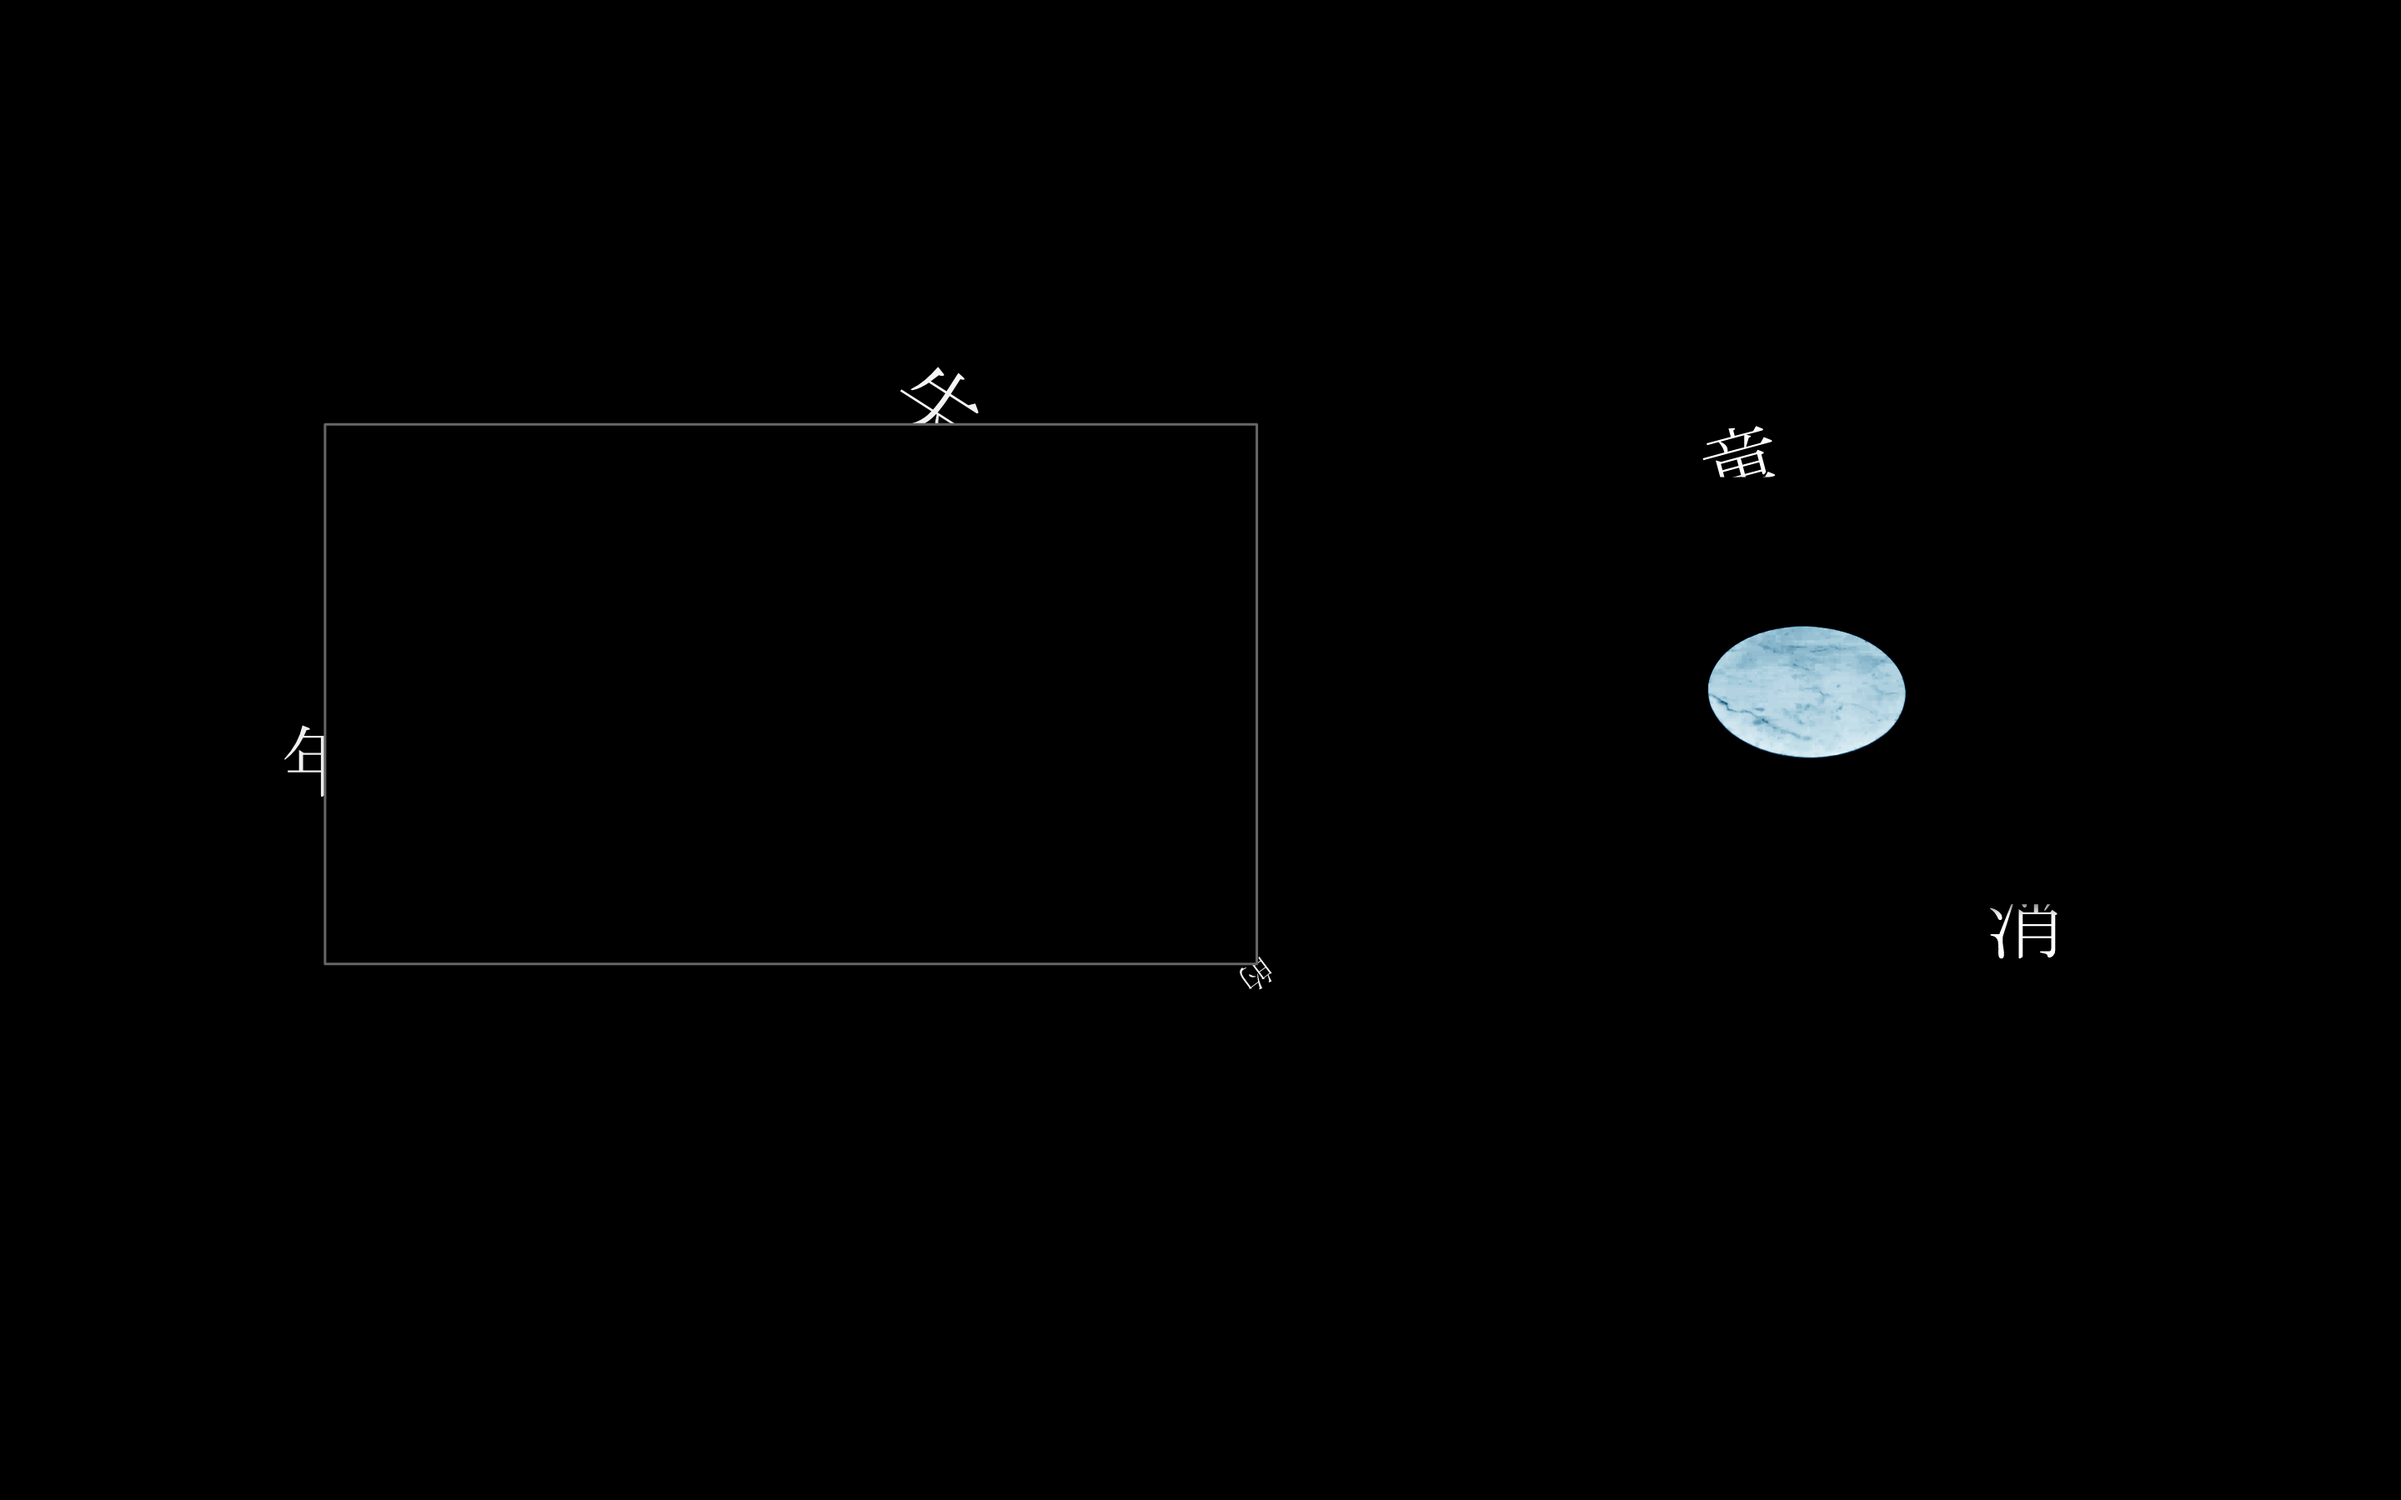
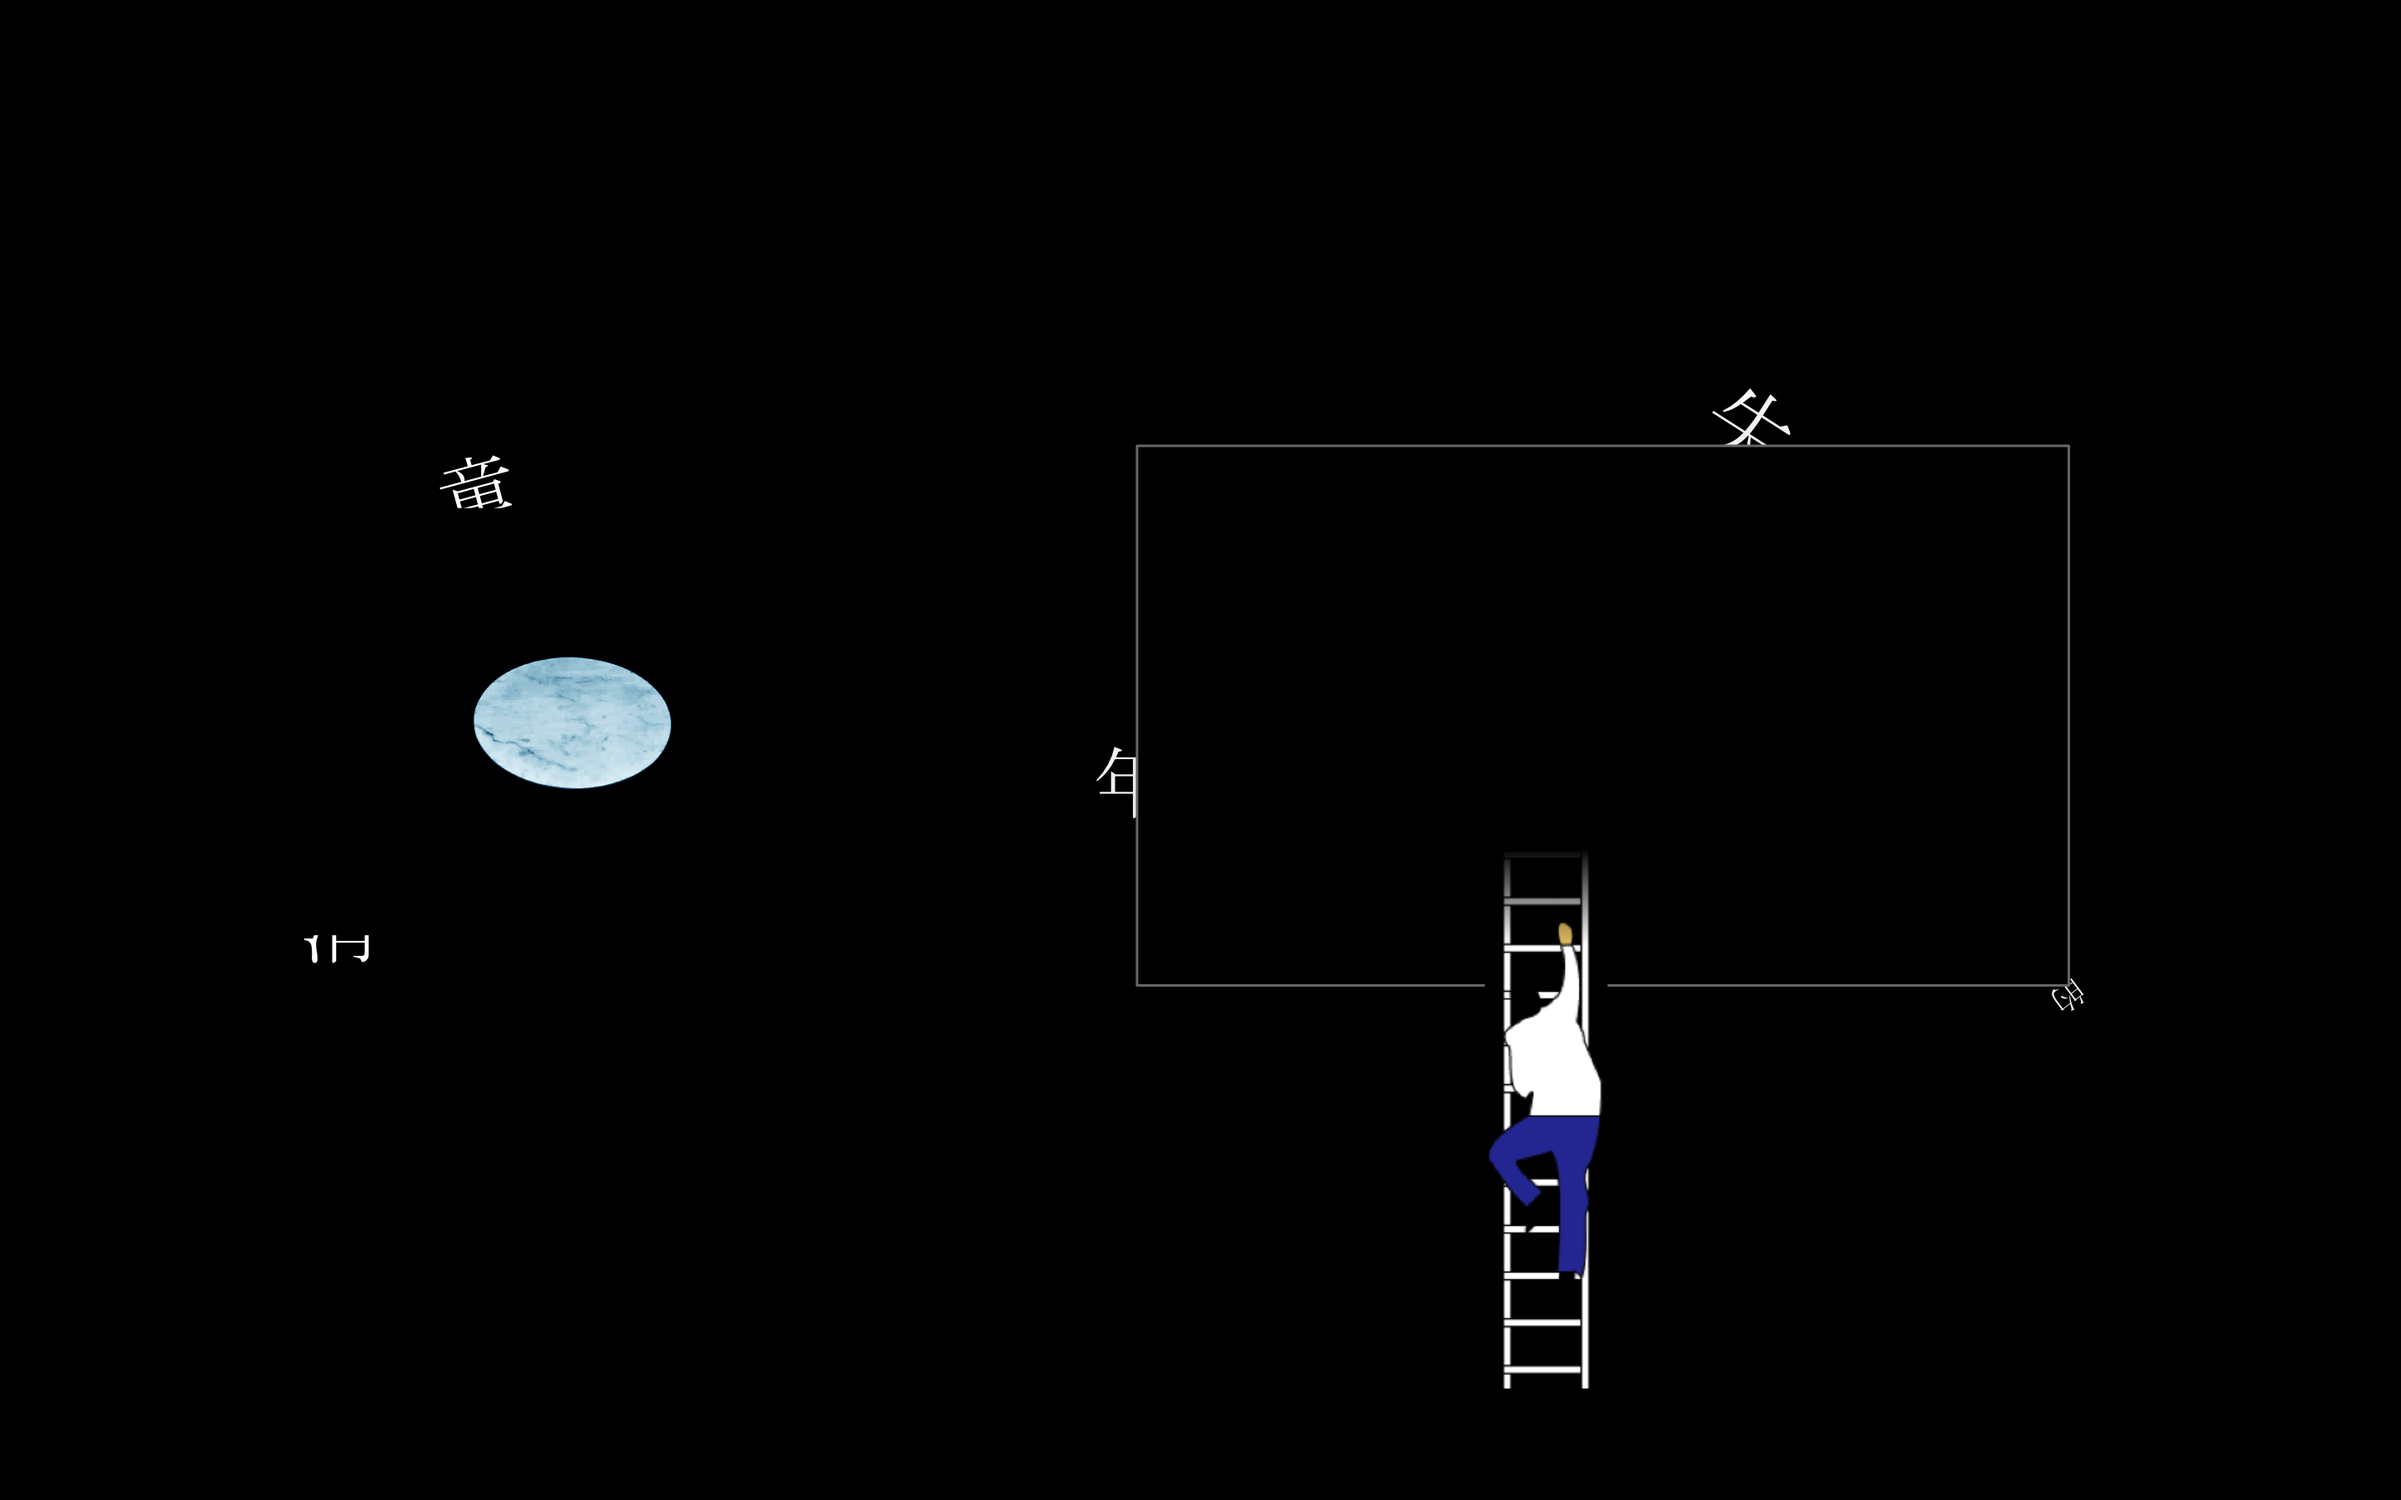
upload more work

diff --git a/lost.html b/lost.html
@@ -27,13 +27,14 @@
       <nav class="navigation" role="navigation">
         <tr class="primary-nav">
           <td><span>消失的童年 | 2017-2018 | 复合媒材 </span></td>
-            <td><a class="noselect pull-right" onclick="onclickNext()" style="margin-left: 12px;">Next</a> <!--<span class="noselect pull-right" style="margin-left: 12px;"><span id="current-work"></span>/<span id="num-works"></span></span>-->
-            <a class="noselect pull-right" onclick="onclickPrev()">Prev</a> </td>
+            <!--<td><a class="noselect pull-right" onclick="onclickNext()" style="margin-left: 12px;">Next</a>
+            <span class="noselect pull-right" style="margin-left: 12px;"><span id="current-work"></span>/<span id="num-works"></span></span>
+            <a class="noselect pull-right" onclick="onclickPrev()">Prev</a> </td>-->
         </tr>
       </nav>
   </header>
 </section>
-<!-- header top section --> 
+<!-- header top section -->
 <!-- header content section -->
 <!--
 <section id="works-info" class="section">
@@ -49,41 +50,50 @@
   </div>
 </section>
 -->
-<!-- header content section --> 
+<!-- header content section -->
 <!-- portfolio grid section -->
 <section id="work-detail">
   <div class="container">
     <div class="row">
       <div class="col-md-12 work-detail ">
         <div class="work-detail">
-            <!-- 1st -->
-            <img id="work1" style="margin:0" src="images/childhood/cover.png" class="img-responsive" alt=""> 
-            <!-- 2nd -->
+
+            <img id="work1" style="margin:0" src="images/childhood/cover.png" class="img-responsive" alt="">
+
             <div style="text-align: center; width: 100%;">
                 <canvas id="work2" id="work2" style="width: 100% !important;" data-processing-sources="processing-sketches/clock/clock.pde"></canvas>
             </div>
-            <!-- 3rd -->
-            <img id="work3" style="padding-top: 200px; float: right; width:50%" src="images/childhood/last-bus.jpg" class="img-responsive" alt=""> 
-            <!-- 4th -->
+
+            <img id="work3" style="padding-top: 200px; float: right; width:50%" src="images/childhood/last-bus.jpg" class="img-responsive" alt="">
+
+            <div id="work10" style="background: white; padding: 200px 0 100px">
+                <img style="margin: auto; width: 100%; " src="images/childhood/untitled.jpg" class="img-responsive" alt="">
+            </div>
             <div id="work4" style="background: white; margin-top: 600px; padding: 300px 0 100px">
                 <img style="margin:0; width: 300px; margin-left: 10%;" src="images/childhood/combustion-face.jpg" class="img-responsive" alt="">
             </div>
             <div id="work5" style="background: white; padding: 200px 0 100px">
                 <img style="margin: auto; width: 300px; " src="images/childhood/combustion-sky.png" class="img-responsive" alt="">
             </div>
-            
-            
-            
-            
+
+            <div id="work8" style="background: white; padding: 200px 0 100px">
+                <img style="margin: auto; width: 100%; " src="images/childhood/electronics.jpg" class="img-responsive" alt="">
+            </div>
+            <div id="work9" style="background: white; padding: 200px 0 100px">
+                <img style="margin: auto; width: 100%; " src="images/childhood/mirror.jpg" class="img-responsive" alt="">
+            </div>
+            <div id="work7" style="background: white; padding: 200px 0 100px">
+                <img style="margin: auto; width: 500px; " src="images/childhood/half.jpg" class="img-responsive" alt="">
+            </div>
         </div>
       </div>
     </div>
   </div>
 </section>
-<!-- portfolio grid section --> 
-    
+<!-- portfolio grid section -->
+
 <!-- footer section -->
-<footer class="footer" style="margin-top: 300px;" id="work6">
+<footer class="footer" id="work6">
   <div class="container">
     <div class="col-md-6 left">
       <div style="color: #b5b5b5; margin-left: 10%; text-align: left; padding-top: 50px;">
@@ -93,29 +103,29 @@
         3/<span class="work-list-title">The Last Bus</span>.<span class="work-list-media">Mixed media on paper</span>.<br>
         4/<span class="work-list-title">Combustion I</span>.<span class="work-list-media">Photography, Photoshop</span>.<br>
         5/<span class="work-list-title">Combustion II</span>.<span class="work-list-media">Photography, Photoshop</span>.<br>
-        6/<span class="work-list-title">Decay (Self Portrait)</span>.<span class="work-list-media">Mixed media on paper</span>. 
+        6/<span class="work-list-title">Decay (Self Portrait)</span>.<span class="work-list-media">Mixed media on paper</span>.
         </div>
     </div>
     <div class="col-md-6 right">
         <!-- 6th - last -->
         <div style="background: white;">
-            <img style="margin: auto; width: 315px; margin-right: 2%;" src="images/childhood/decay.jpg" class="img-responsive" alt=""> 
+            <img style="margin: auto; width: 315px; margin-right: 2%;" src="images/childhood/decay.jpg" class="img-responsive" alt="">
         </div>
 
       <p>© <a target="_blank" href="http://chunwang.me">Chun Wang</a> 2018 All rights reserved.</p>
     </div>
   </div>
 </footer>
-    
-<!-- JS FILES --> 
+
+<!-- JS FILES -->
 <script src="https://ajax.googleapis.com/ajax/libs/jquery/1.11.3/jquery.min.js"></script>
 <script src="https://cdnjs.cloudflare.com/ajax/libs/p5.js/0.6.1/p5.min.js"></script>
-<script src="js/bootstrap.min.js"></script> 
-<script src="js/jquery.fancybox.pack.js"></script> 
-<script src="js/jquery.waypoints.min.js"></script> 
-<script src="js/retina.min.js"></script> 
+<script src="js/bootstrap.min.js"></script>
+<script src="js/jquery.fancybox.pack.js"></script>
+<script src="js/jquery.waypoints.min.js"></script>
+<script src="js/retina.min.js"></script>
 <script src="js/processing.js"></script>
-<script src="js/modernizr.js"></script> 
+<script src="js/modernizr.js"></script>
 <script src="js/main.js"></script>
 </body>
 </html>

diff --git a/js/main.js b/js/main.js
@@ -1,5 +1,5 @@
 const MIN_WORK_INDEX = 1;
-const MAX_WORK_INDEX = 6;
+const MAX_WORK_INDEX = 7;
 var currentWorkIndex = MIN_WORK_INDEX;
 
 function onclickNext() {
@@ -28,8 +28,8 @@ function skipToWork(index) {
 $(document).ready(function() {
     //$("#current-work").text(MIN_WORK_INDEX);
     //$("#num-works").text(MAX_WORK_INDEX);
-    
-    
+
+
 	// Header Scroll
     /*
 	$(window).on('scroll', function() {
@@ -42,7 +42,7 @@ $(document).ready(function() {
 		}
 	});
 
-	
+
 	// Page Scroll
 	var sections = $('section')
 		nav = $('nav[role="navigation"]');
@@ -72,7 +72,7 @@ $(document).ready(function() {
 		$(this).toggleClass('close-nav');
 		nav.toggleClass('open');
 		return false;
-	});	
+	});
 	nav.find('a').on('click', function() {
 		$('.nav-toggle').toggleClass('close-nav');
 		nav.toggleClass('open');

diff --git a/css/main.css b/css/main.css
@@ -66,7 +66,7 @@ h5 {
 	Global Styles
 -------------------------------------------------------------------------------*/
 a {
-	
+
 }
 a:hover, a:focus {
 	text-decoration: none;
@@ -411,6 +411,8 @@ ul li {
 	 Footer
 -------------------------------------------------------------------------------*/
 .footer {
+	margin-top: 300px;
+	padding-bottom: 25px;
 	text-align: right;
 }
 .footer h4 {
@@ -453,7 +455,7 @@ ul li {
 .work-list-title {
     font-style: italic;
     margin-left: 12px;
-    
+
 }
 .work-list-media {
     font-size: 12px;
